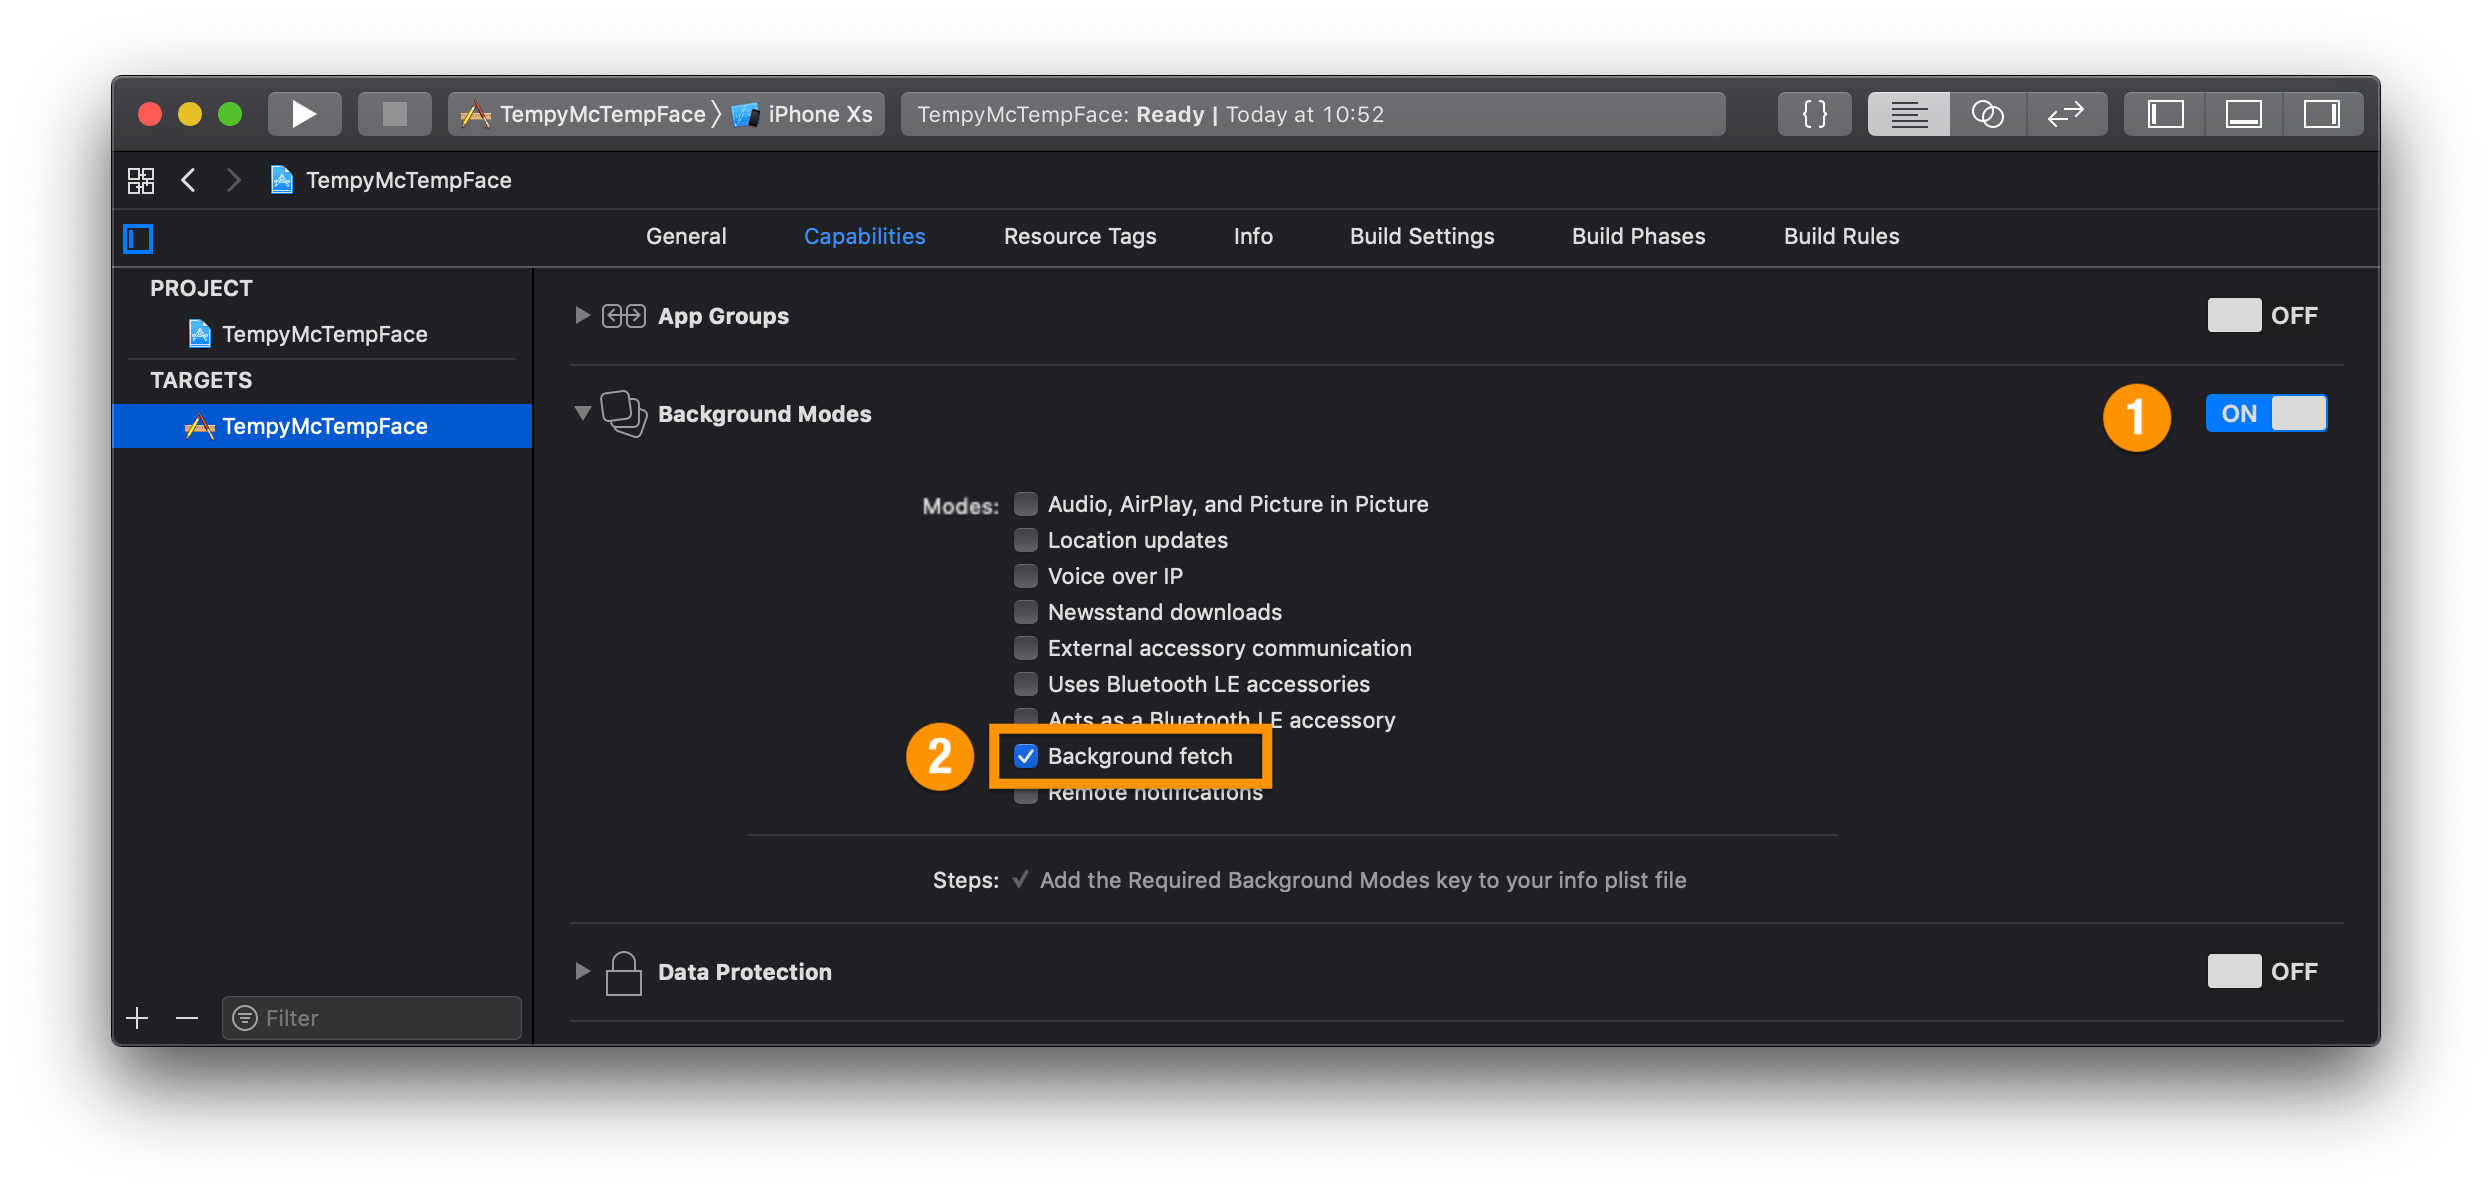
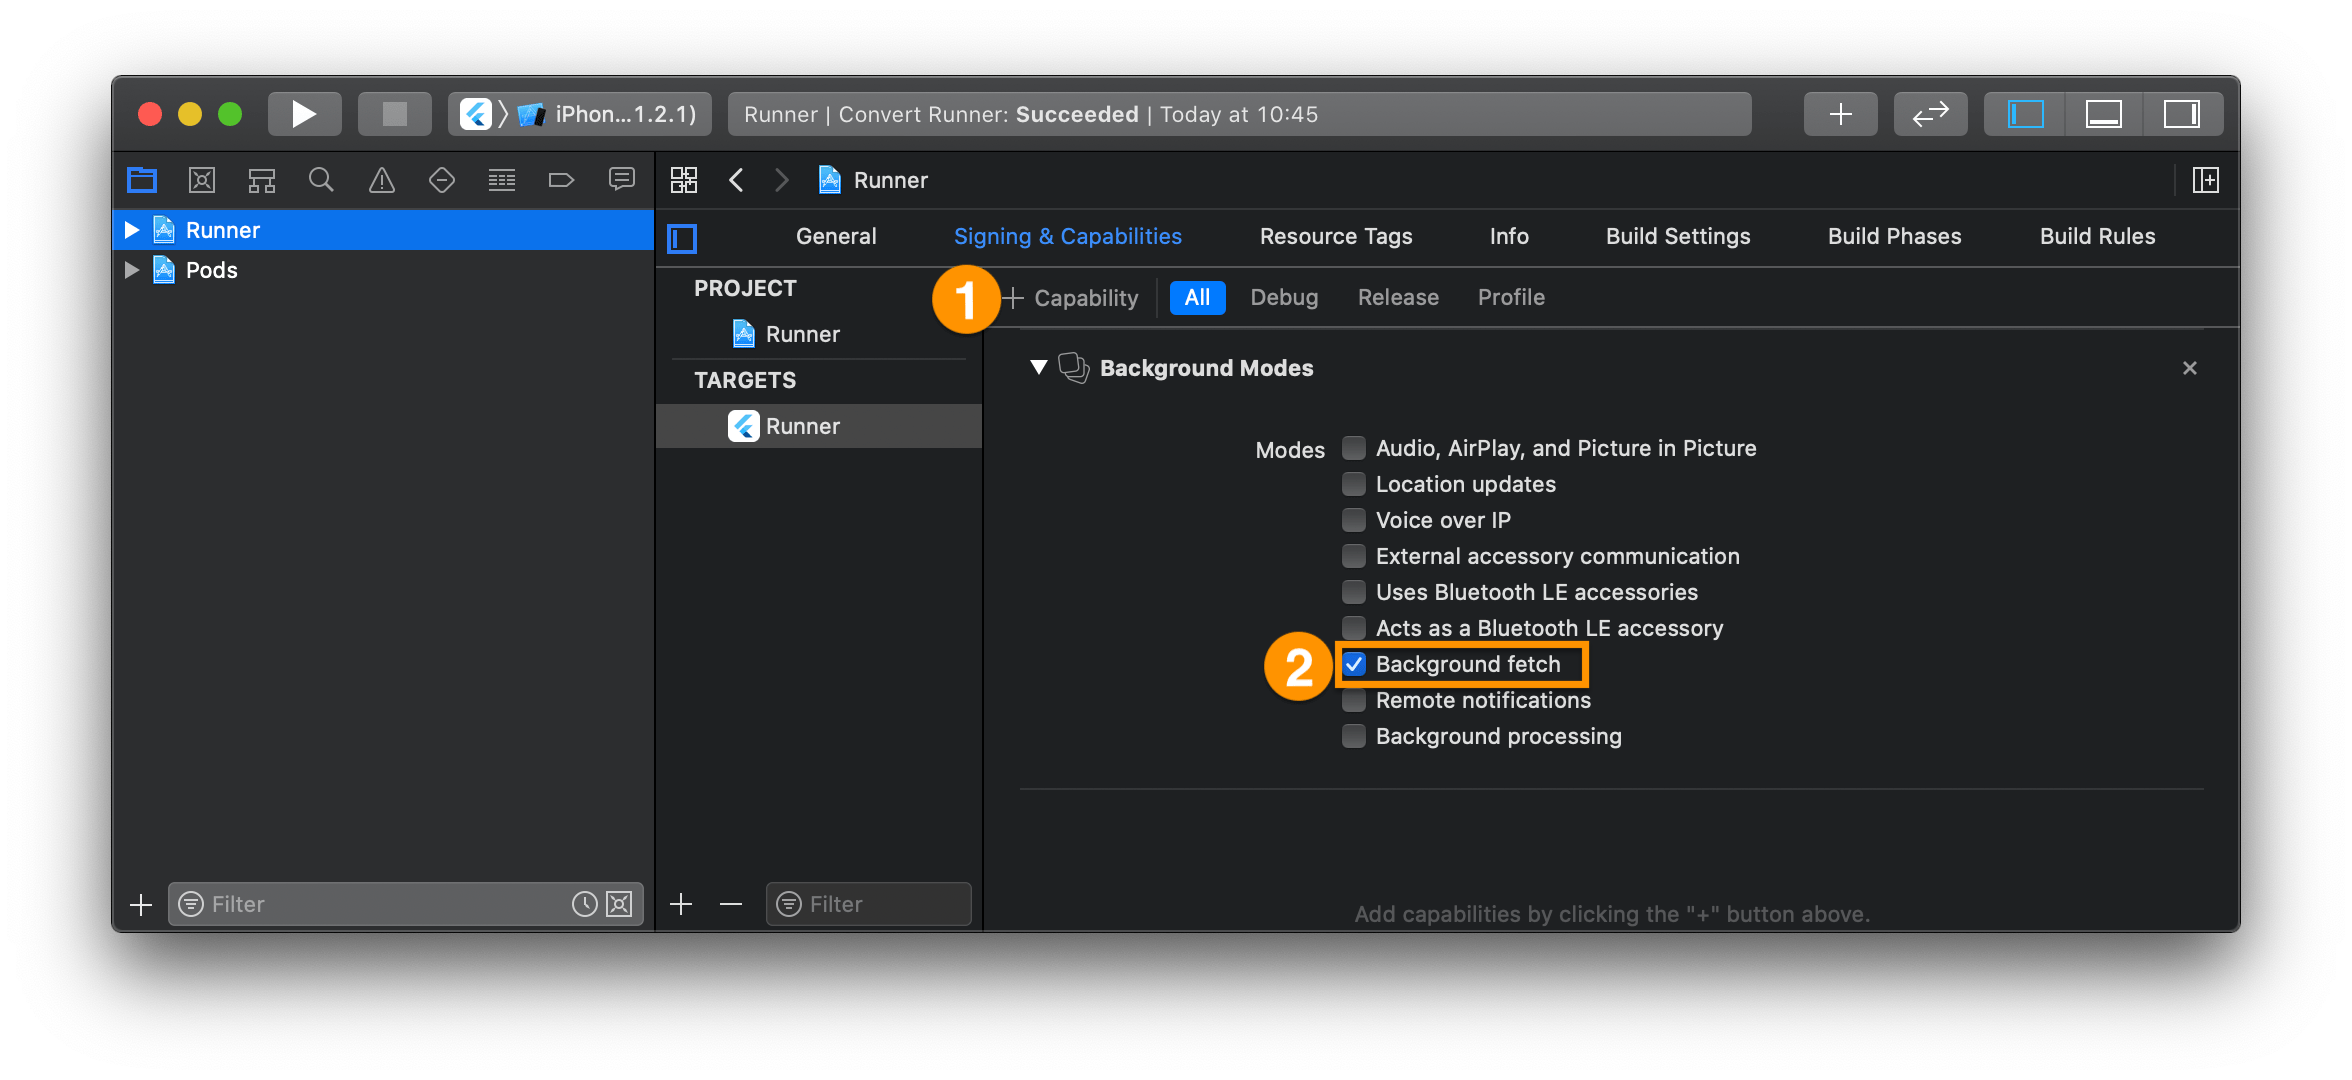
✅ Update iOS example (#129)

diff --git a/example/ios/Runner/AppDelegate.swift b/example/ios/Runner/AppDelegate.swift
@@ -21,11 +21,8 @@ import workmanager
         
     }
     
-}
-
-extension AppDelegate: UNUserNotificationCenterDelegate {
+    override func userNotificationCenter(_ center: UNUserNotificationCenter, willPresent notification: UNNotification, withCompletionHandler completionHandler: @escaping (UNNotificationPresentationOptions) -> Void) {
+         completionHandler(.alert) // shows banner even if app is in foreground
+     }
     
-    func userNotificationCenter(_ center: UNUserNotificationCenter, willPresent notification: UNNotification, withCompletionHandler completionHandler: @escaping (UNNotificationPresentationOptions) -> Void) {
-        completionHandler(.alert) // shows banner even if app is in foreground
-    }
 }

diff --git a/IOS_SETUP.md b/IOS_SETUP.md
@@ -6,10 +6,10 @@ This plugin is compatible with **Swift 4.2** and up. Make sure you are using **X
 
 ## Enabling Background Fetch
 
+>  ⚠  Background fetch this is currently the *only* supported way to do background work on iOS with work manager: **One off tasks** or **Periodic tasks** are available on Android only for now! (see #109)
+
 Background fetching is very different compared to Android's Background Jobs.  
-In order for your app to support Background Fetch, you have to enable the *Background Modes* capability in Xcode for your app's Target and check the *Background fetch* mode checkbox:
-
-
+In order for your app to support Background Fetch, you have to add the *Background Modes* capability in Xcode for your app's Target and check *Background fetch*:
 
 ![Screenshot of Background Fetch Capabilities tab in Xcode ](.art/ios_background_mode_fetch.png)
 
@@ -22,7 +22,7 @@ This will add the **UIBackgroundModes** key to your project's `Info.plist`:
 </array>
 ```
 
-And set the correct *SystemCapabilities* for your target in the `project.pbxproj` file:
+And will set the correct *SystemCapabilities* for your target in the `project.pbxproj` file:
 
 ```
 SystemCapabilities = {
@@ -141,11 +141,14 @@ From the [Apple docs](https://developer.apple.com/documentation/usernotification
 
 An easy way to get it working is by implementing it your `AppDelegate` like so:
 ```swift
-extension AppDelegate: UNUserNotificationCenterDelegate {
+class AppDelegate: FlutterAppDelegate {
+    // ...
+    override func userNotificationCenter(_ center: UNUserNotificationCenter,
+                                         willPresent notification: UNNotification,
+                                         withCompletionHandler completionHandler: @escaping (UNNotificationPresentationOptions) -> Void) {
+         completionHandler(.alert) // shows banner even if app is in foreground
+     }
     
-    func userNotificationCenter(_ center: UNUserNotificationCenter, willPresent notification: UNNotification, withCompletionHandler completionHandler: @escaping (UNNotificationPresentationOptions) -> Void) {
-        completionHandler(.alert)
-    }
 }
 ```
 
